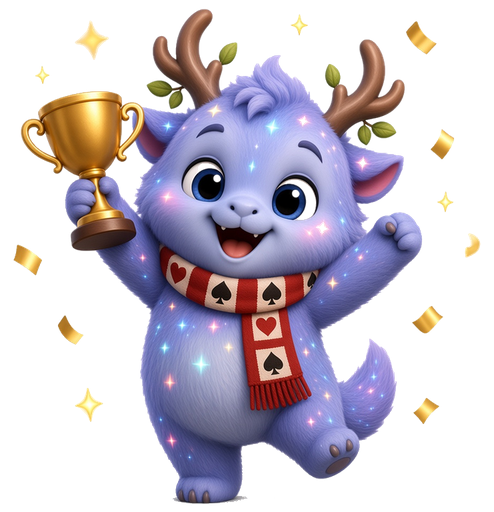
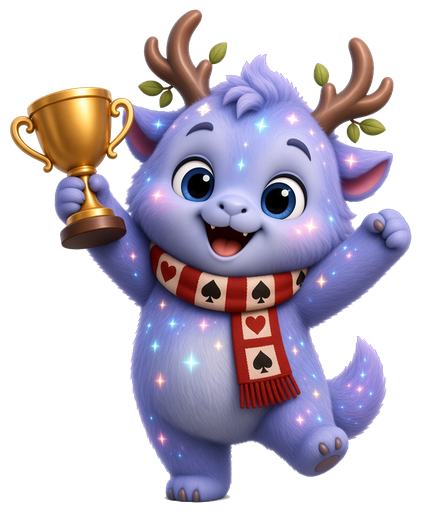
Mesa: Campeoes com Lumi de olhos corrigidos, parado (sem sobe-e-desce) e recorte no iPhone.

diff --git a/mesa/assets/mesa-campeoes.css b/mesa/assets/mesa-campeoes.css
@@ -71,10 +71,10 @@ dialog.cp-pagina {
   box-sizing: border-box;
   inset: 0;
   width: 100%;
-  max-width: 100vw;
+  max-width: 100%;
   min-width: 0;
   height: 100%;
-  max-height: 100dvh;
+  max-height: 100%;
   margin: 0;
   padding: 0;
   border: 0;
@@ -90,6 +90,39 @@ dialog.cp-pagina {
 }
 dialog.cp-pagina::backdrop { background: #0a0614f0; }
 dialog.cp-pagina:focus { outline: none; }
+
+dialog.cp-pagina {
+  -webkit-text-size-adjust: 100%;
+  text-size-adjust: 100%;
+}
+@media (max-width: 719px) {
+  dialog.cp-pagina {
+    position: fixed !important;
+    top: 0 !important;
+    right: 0 !important;
+    bottom: 0 !important;
+    left: 0 !important;
+    width: 100% !important;
+    max-width: 100% !important;
+    min-width: 0 !important;
+    height: 100% !important;
+    max-height: 100% !important;
+    margin: 0 !important;
+    transform: none !important;
+    overflow-x: hidden !important;
+    box-sizing: border-box !important;
+  }
+  .cp-topo, .cp-corpo, .cp-hero, .cp-hero-arte, .cp-temporada, .cp-convite, .cp-conta, .cp-topo h2 {
+    max-width: 100% !important;
+    min-width: 0 !important;
+    box-sizing: border-box !important;
+  }
+  .cp-topo h2, .cp-temporada, .cp-convite {
+    overflow-wrap: anywhere !important;
+    word-break: break-word !important;
+    white-space: normal !important;
+  }
+}
 
 .cp-topo {
   position: sticky;
@@ -175,21 +208,18 @@ dialog.cp-pagina:focus { outline: none; }
 }
 .cp-hero img {
   display: block;
-  width: auto;
-  height: min(40vh, 168px);
-  max-height: 40vh;
-  max-width: min(72vw, 180px);
+  width: 168px !important;
+  max-width: 70% !important;
+  height: auto !important;
+  max-height: 36vh !important;
   object-fit: contain;
   object-position: center bottom;
   background: transparent !important;
   box-shadow: none;
   border: 0;
   filter: none;
-  animation: cpLumi 3.8s ease-in-out infinite;
-}
-@keyframes cpLumi {
-  0%, 100% { transform: translateY(0); }
-  50% { transform: translateY(-6px); }
+  animation: none !important;
+  transform: none !important;
 }
 .cp-hero h1 {
   margin: 4px 0 0;
@@ -521,7 +551,7 @@ dialog.cp-pagina:focus { outline: none; }
     box-shadow: 0 24px 80px #000a;
   }
   dialog.cp-pagina::backdrop { background: #0a0614cc; backdrop-filter: blur(8px); }
-  .cp-hero img { height: min(40vh, 200px); max-width: min(72vw, 200px); }
+  .cp-hero img { width: 200px !important; max-width: 70% !important; height: auto !important; max-height: 36vh !important; animation: none !important; }
 }
 @media (prefers-reduced-motion: reduce) {
   .cp-hero img, .cp-lugar.p1 { animation: none; }

diff --git a/mesa/assets/mesa-campeoes-atalho.js b/mesa/assets/mesa-campeoes-atalho.js
@@ -2,7 +2,7 @@
 (function(){
 // Campeões da Season no bundle da MesaApp (www). Lê o ranking mensal real do servidor.
 const CORES = ["#f4212e", "#1d9bf0", "#ff7a00", "#7856ff"]
-const LUMI = "/mesa/arte/nubo/lumi-campeoes.png?v=2"
+const LUMI = "/mesa/arte/nubo/lumi-campeoes.png?v=4"
 const SERVIDOR = "https://mesas-domino.officialoddloom.workers.dev"
 const EXEMPLOS = [
   { code: "EXEMPLO1", nome: "Exemplo 1", avatar: null, moldura: null, pontos: 120, v: 18, p: 24, posicao: 1 },
@@ -101,6 +101,16 @@ function aplicarSafeArea(j) {
   d.remove()
 }
 
+
+function travarDialog(j) {
+  aplicarSafeArea(j)
+  if (window.innerWidth < 720) {
+    const s = ["position","fixed","top","0px","right","0px","bottom","0px","left","0px","width","100%","max-width","100%","min-width","0","height","100%","max-height","100%","margin","0","overflow-x","hidden","box-sizing","border-box","transform","none"]
+    for (let i = 0; i < s.length; i += 2) j.style.setProperty(s[i], s[i+1], "important")
+    document.documentElement.style.overflowX = "hidden"
+  }
+}
+
 function garantirAtalho() {
   document.querySelectorAll(".tela.inicio .mh-sino-col").forEach((col) => {
     if (col.querySelector(".mh-trofeu")) return
@@ -119,9 +129,10 @@ function abrir() {
     clearInterval(timer)
     j.remove()
     if (janela === j) janela = null
+    document.documentElement.style.overflowX = ""
   })
   document.body.append(j)
-  aplicarSafeArea(j)
+  travarDialog(j)
   j.append(el("p", { className: "cp-vazio", text: "Carregando os campeões…" }))
   j.showModal()
   void carregar()
@@ -153,7 +164,7 @@ function pintarLista() {
   clearInterval(timer)
   timer = setInterval(atualizar, 30000)
   const hero = el("div", { className: "cp-hero" },
-    el("div", { className: "cp-hero-arte" }, el("img", { src: LUMI, alt: "Lumi comemorando os campeões", decoding: "async", draggable: "false" })),
+    el("div", { className: "cp-hero-arte" }, el("img", { src: LUMI, alt: "Lumi comemorando os campeões", decoding: "async", draggable: "false", width: "168", height: "204" })),
     el("p", { className: "cp-temporada", text: nomeTemporada(dados.temporada) }),
     contaEl,
     el("p", { className: "cp-convite", text: "O pódio é de quem mais pontua nesta season. Entre para a lista e mostre do que você é capaz." }),

diff --git a/mesa/index.html b/mesa/index.html
@@ -20,8 +20,8 @@
     <script defer src="/mesa/assets/mesa-extras-a1d303d36262.js"></script>
     <script defer src="/mesa/assets/mesa-visual-ce2d9cfd87bc.js"></script>
     <script defer src="/mesa/assets/mesa-missoes-atalho.js?v=1"></script>
-    <link rel="stylesheet" href="/mesa/assets/mesa-campeoes.css?v=3">
-    <script defer src="/mesa/assets/mesa-campeoes-atalho.js?v=2"></script>
+    <link rel="stylesheet" href="/mesa/assets/mesa-campeoes.css?v=4">
+    <script defer src="/mesa/assets/mesa-campeoes-atalho.js?v=4"></script>
   </head>
   <body>
     <main id="app"></main>
